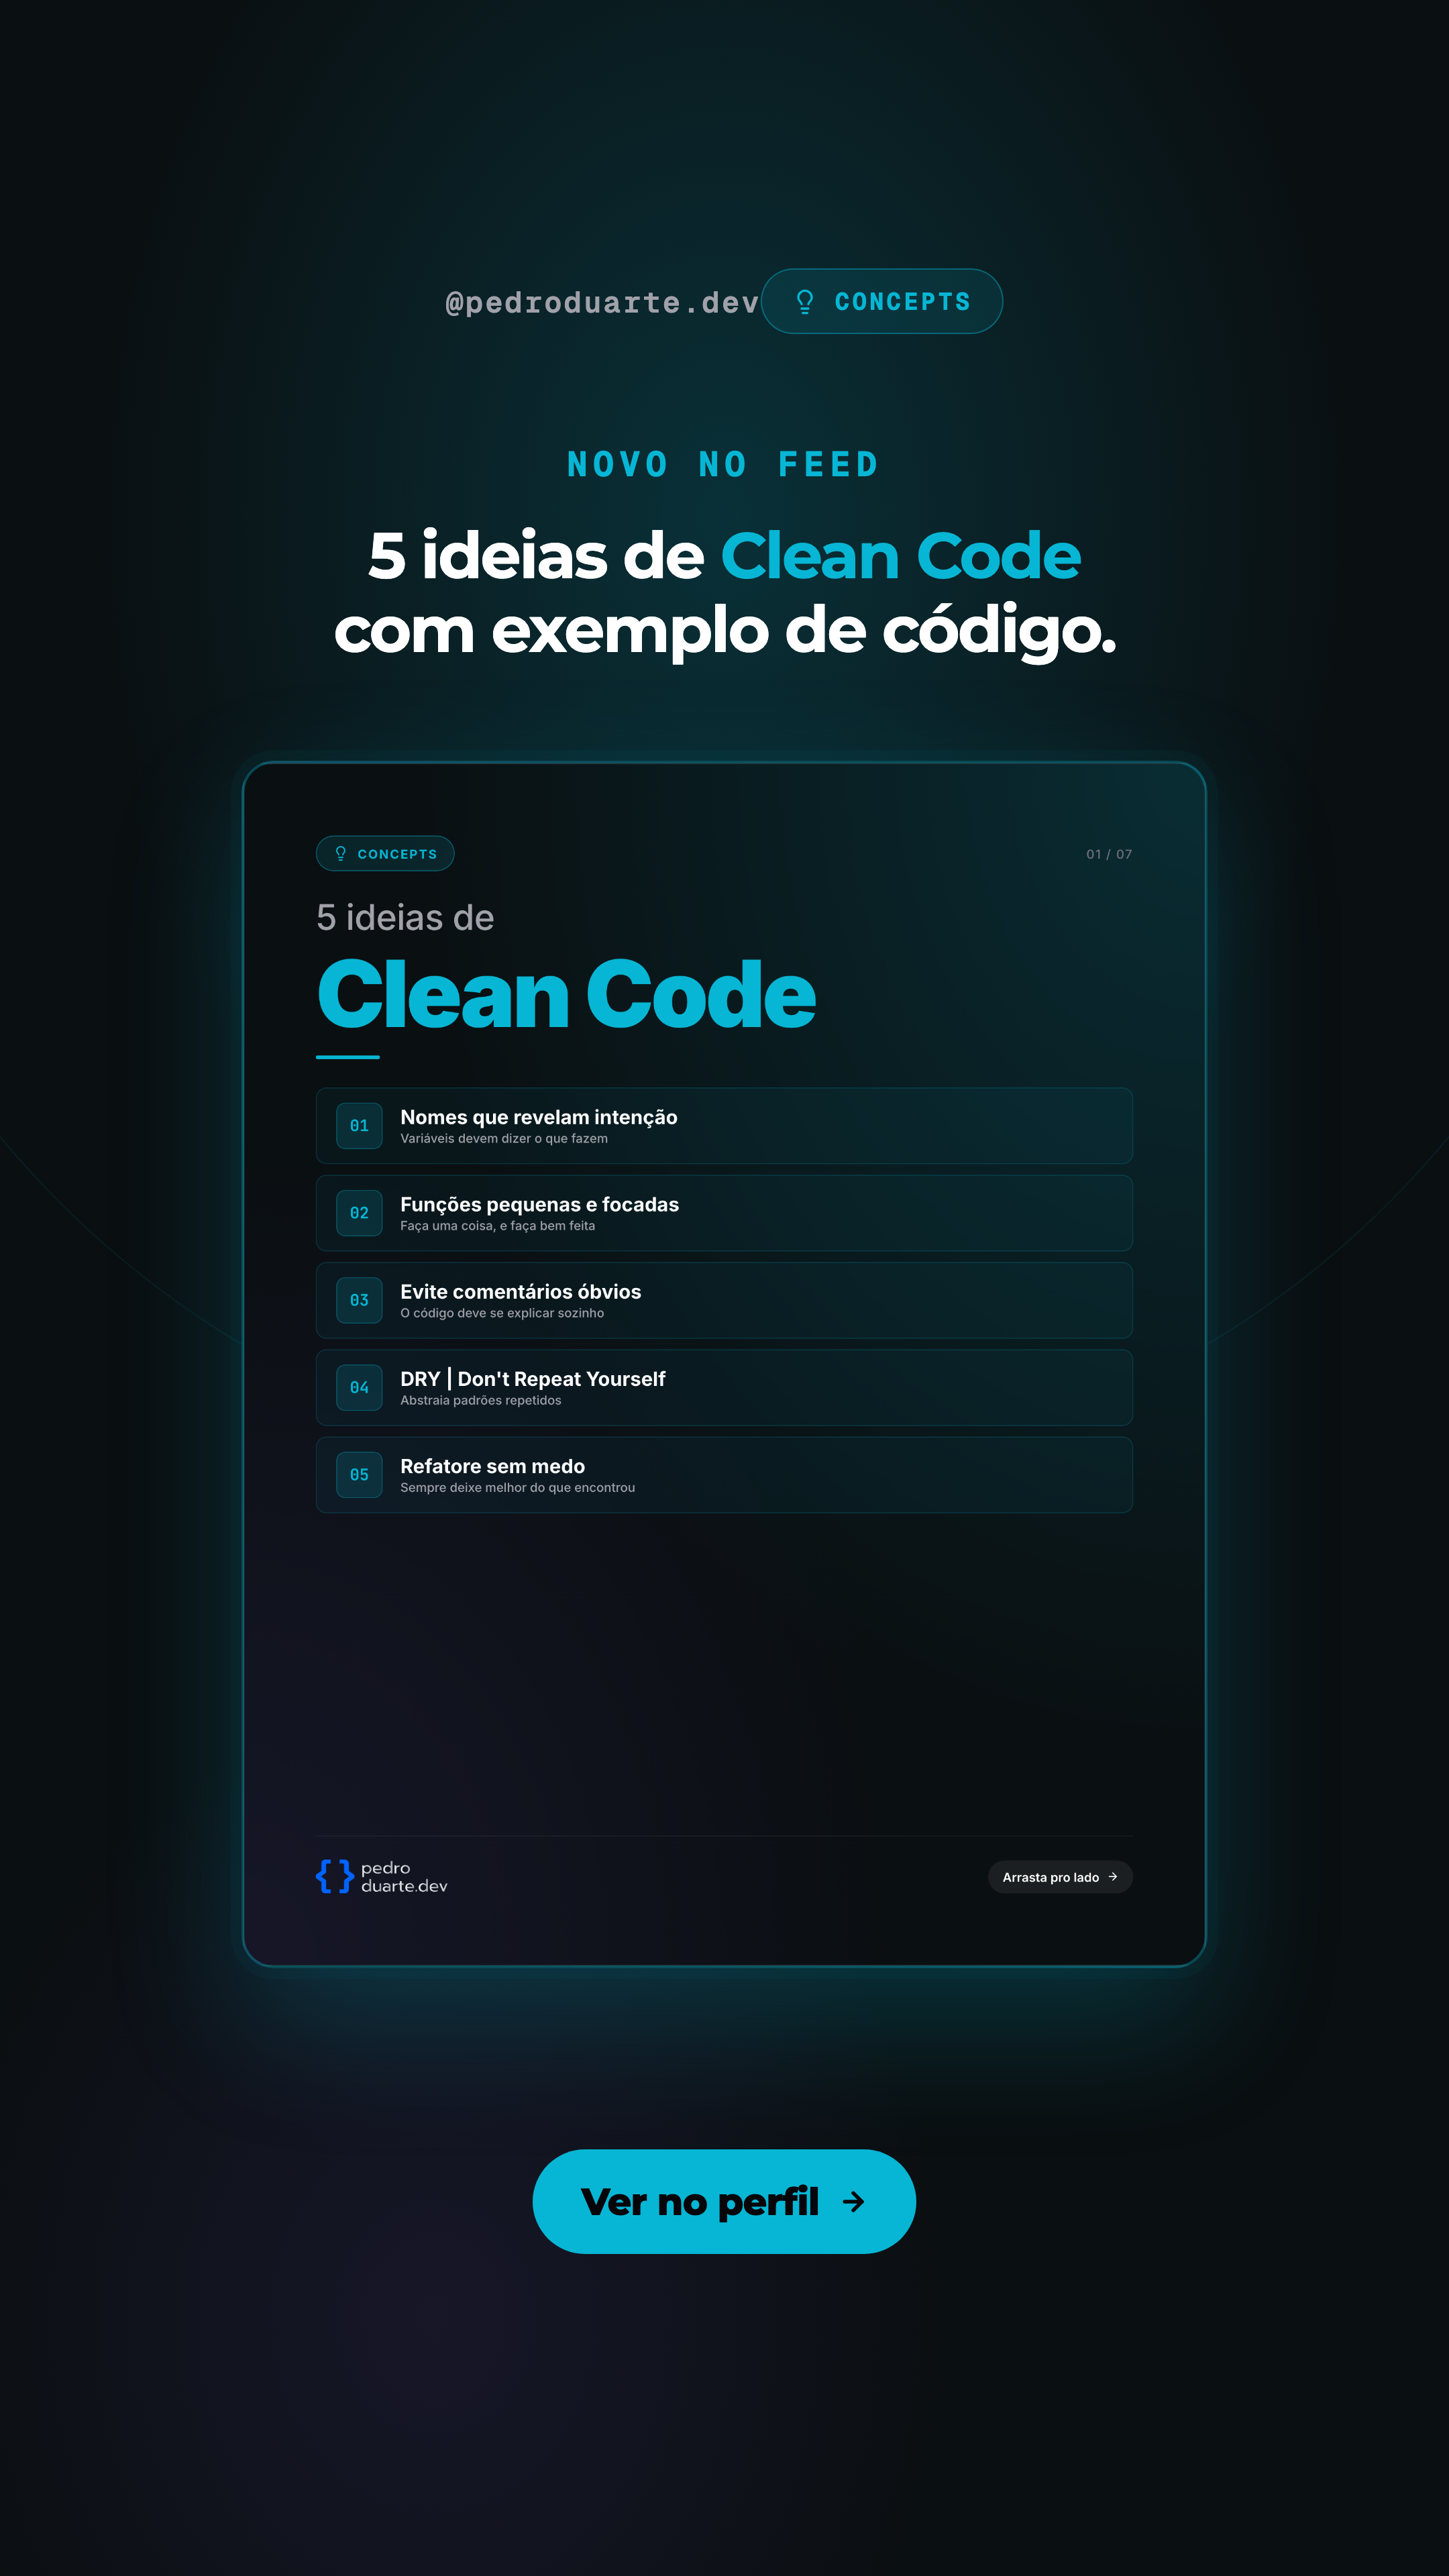
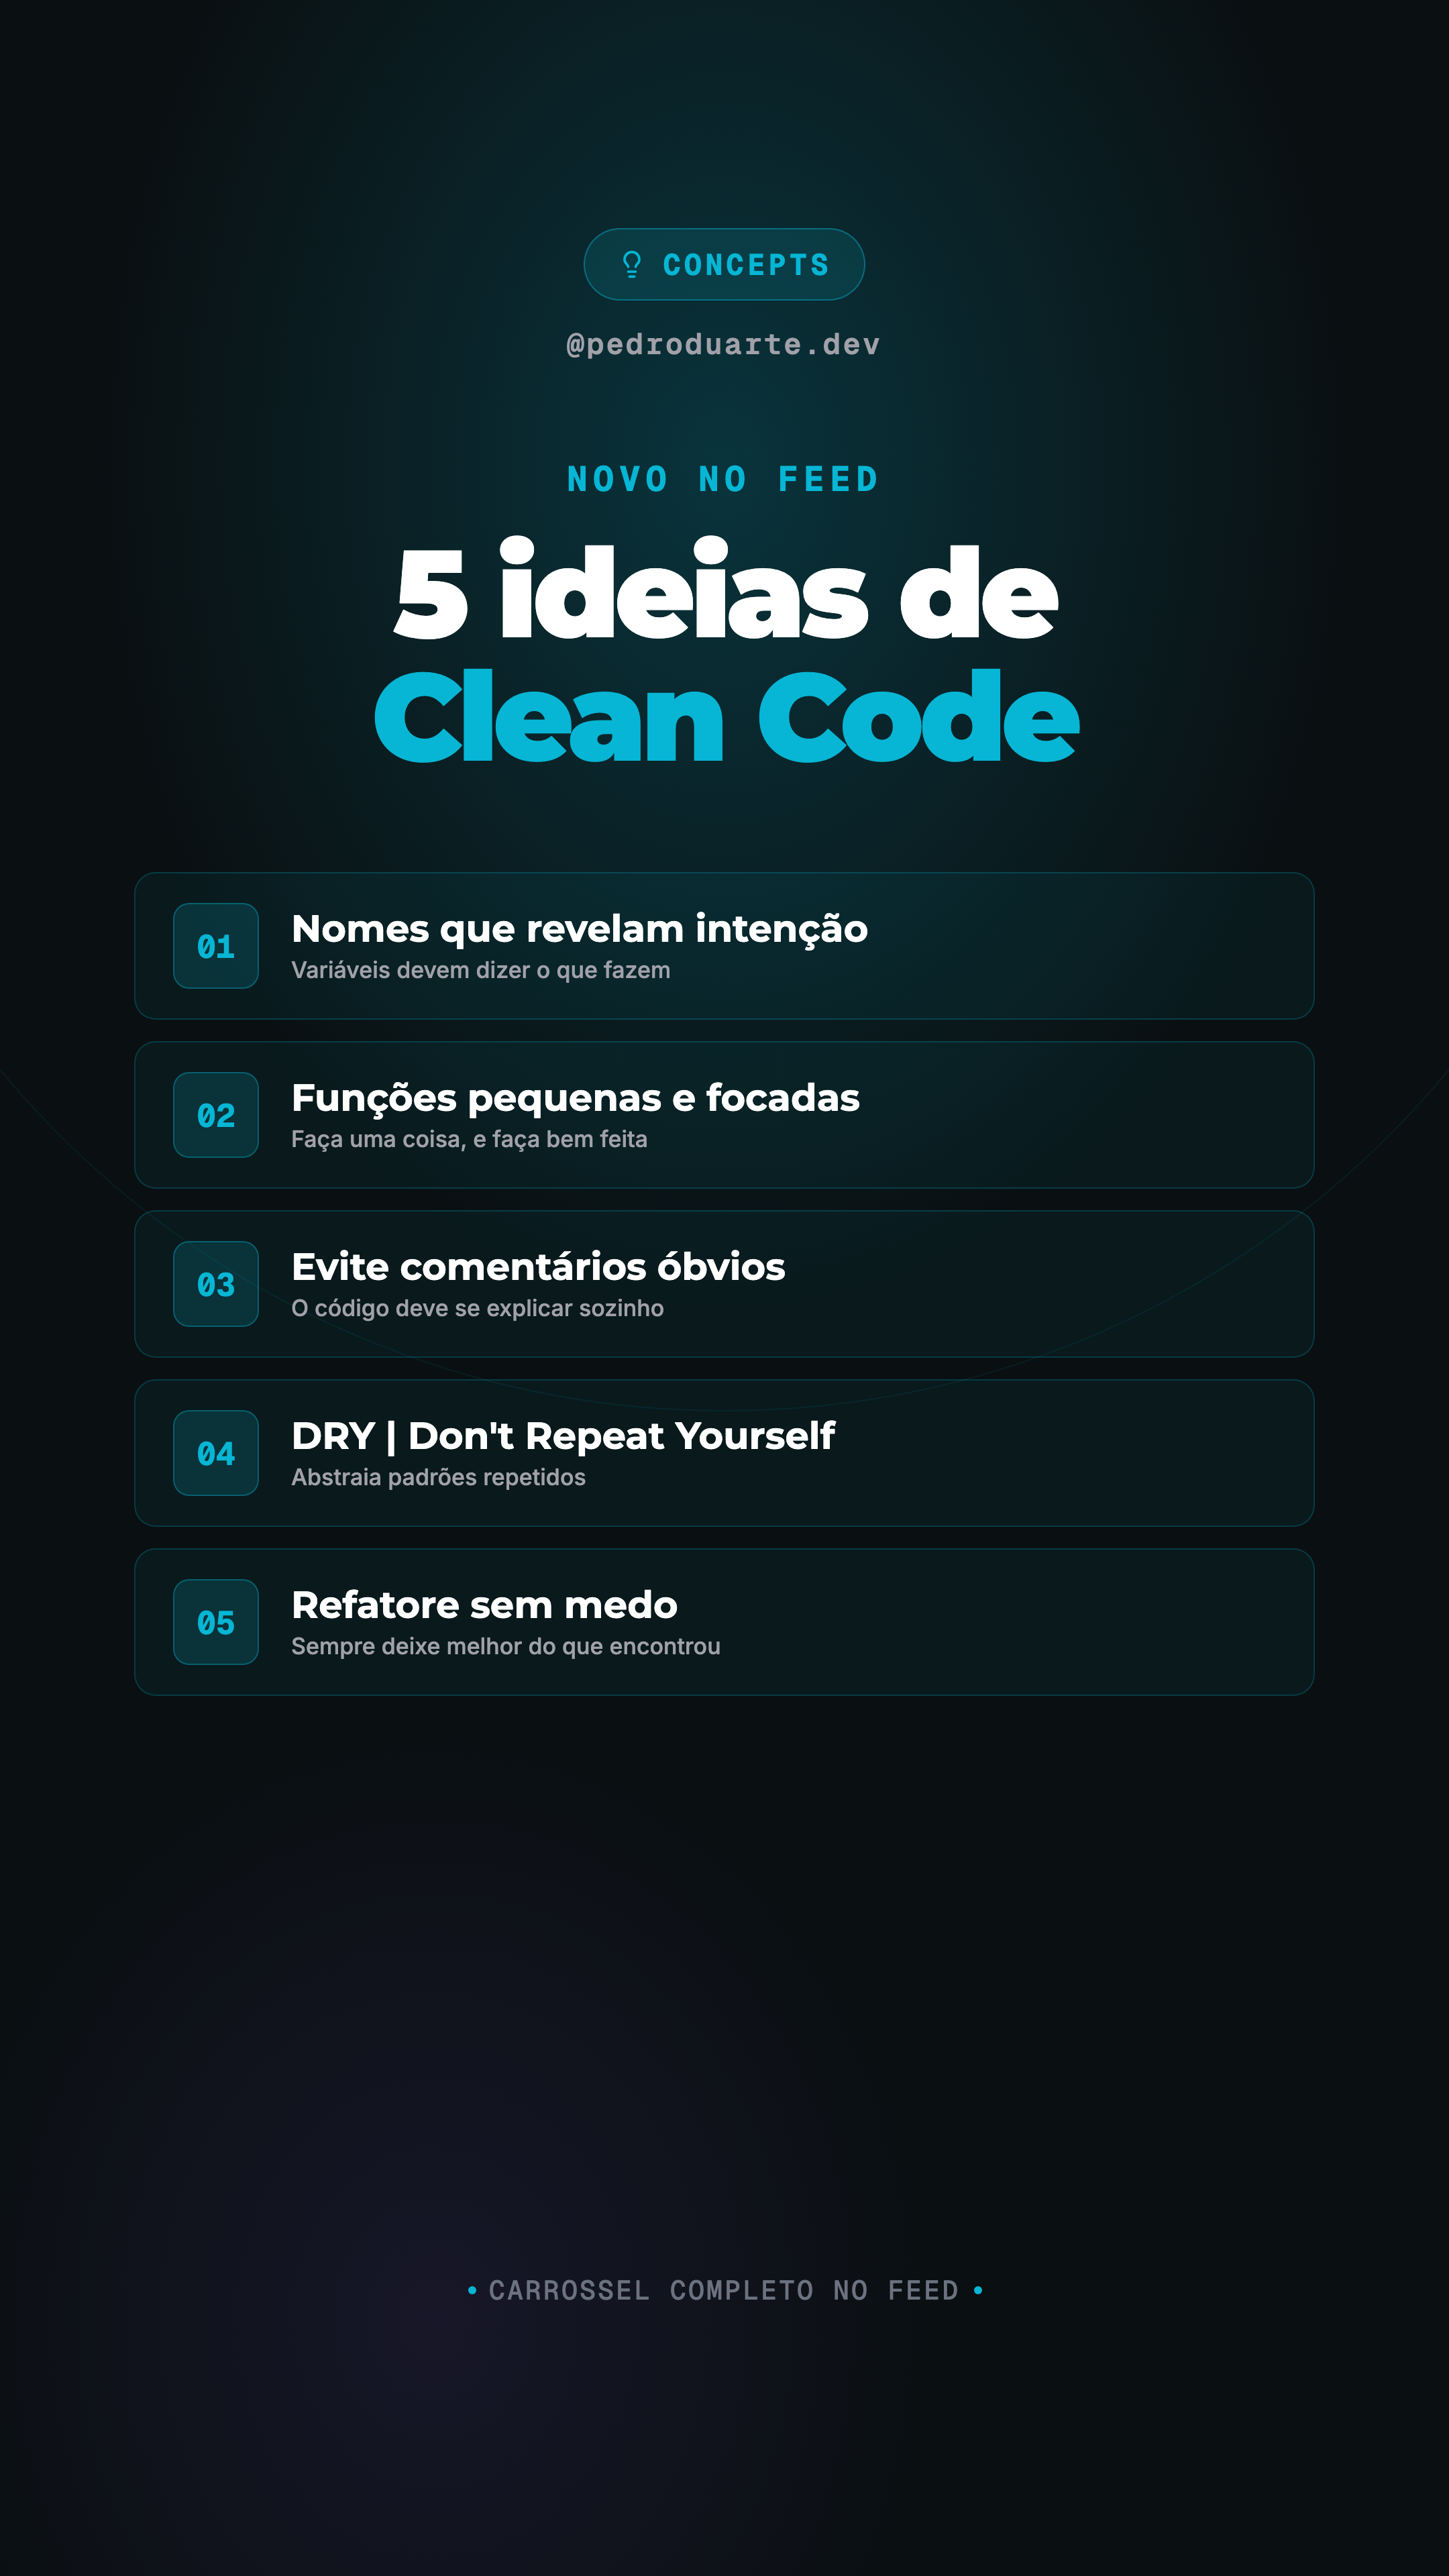
Ajusta story do Clean Code: índice dos 5 itens + hint discreto
- Tira preview pequena da capa, mostra os 5 itens numerados grandes
- Badge "Concepts" empilhado acima do @user
- Substitui CTA-falsa por hint "Carrossel completo no feed"
  (story via API não aceita stickers clicáveis, evitar enganar viewer)

diff --git a/marketing/conteudo/carrossel-clean-code-2026-05-21/story.html b/marketing/conteudo/carrossel-clean-code-2026-05-21/story.html
@@ -13,13 +13,13 @@
   .story {
     width: 1080px;
     height: 1920px;
-    background: radial-gradient(ellipse 80% 60% at 50% 20%, rgba(6,182,212,0.20) 0%, transparent 55%),
+    background: radial-gradient(ellipse 80% 60% at 50% 18%, rgba(6,182,212,0.22) 0%, transparent 55%),
                 radial-gradient(ellipse 60% 40% at 30% 90%, rgba(139,92,246,0.10) 0%, transparent 60%),
                 #0A0F11;
     display: flex;
     flex-direction: column;
     align-items: center;
-    padding: 200px 80px 240px;
+    padding: 170px 80px 200px;
     color: #FFFFFF;
     position: relative;
     overflow: hidden;
@@ -33,17 +33,43 @@
     border-radius: 999px;
     border: 1px solid rgba(6,182,212,0.18);
     opacity: 0.5;
-    top: -300px;
+    top: -350px;
     left: 50%;
     transform: translateX(-50%);
   }
 
-  .header {
+  /* Header: badge em cima, @handle embaixo */
+  .head {
     display: flex;
+    flex-direction: column;
     align-items: center;
-    justify-content: space-between;
+    gap: 18px;
     position: relative;
     z-index: 1;
+  }
+  .badge {
+    display: inline-flex;
+    align-items: center;
+    gap: 12px;
+    padding: 12px 24px;
+    border-radius: 999px;
+    background: rgba(6, 182, 212, 0.13);
+    border: 1px solid rgba(6, 182, 212, 0.42);
+    font-family: 'Geist Mono', monospace;
+    font-size: 22px;
+    font-weight: 700;
+    letter-spacing: 2.5px;
+    color: #06B6D4;
+    text-transform: uppercase;
+  }
+  .badge svg {
+    width: 22px;
+    height: 22px;
+    fill: none;
+    stroke: currentColor;
+    stroke-width: 2;
+    stroke-linecap: round;
+    stroke-linejoin: round;
   }
   .handle {
     font-family: 'Geist Mono', monospace;
@@ -52,33 +78,10 @@
     letter-spacing: 1.5px;
     color: #A1A1AA;
   }
-  .badge {
-    display: inline-flex;
-    align-items: center;
-    gap: 12px;
-    padding: 12px 22px;
-    border-radius: 999px;
-    background: rgba(6, 182, 212, 0.10);
-    border: 1px solid rgba(6, 182, 212, 0.40);
-    font-family: 'Geist Mono', monospace;
-    font-size: 18px;
-    font-weight: 700;
-    letter-spacing: 2px;
-    color: #06B6D4;
-    text-transform: uppercase;
-  }
-  .badge svg {
-    width: 20px;
-    height: 20px;
-    fill: none;
-    stroke: currentColor;
-    stroke-width: 2;
-    stroke-linecap: round;
-    stroke-linejoin: round;
-  }
 
+  /* Eyebrow + título */
   .eyebrow {
-    margin-top: 80px;
+    margin-top: 70px;
     font-family: 'Geist Mono', monospace;
     font-size: 26px;
     font-weight: 700;
@@ -89,74 +92,106 @@
     position: relative;
     z-index: 1;
   }
-
-  .subtitle {
-    margin-top: 24px;
+  .title {
+    margin-top: 22px;
     font-family: 'Montserrat', sans-serif;
-    font-size: 48px;
-    font-weight: 700;
-    line-height: 1.15;
-    letter-spacing: -1.5px;
+    font-size: 92px;
+    font-weight: 900;
+    line-height: 1;
+    letter-spacing: -3.5px;
     color: #FFFFFF;
     text-align: center;
-    max-width: 820px;
+    max-width: 920px;
     position: relative;
     z-index: 1;
   }
-  .subtitle em {
+  .title em {
     color: #06B6D4;
     font-style: normal;
   }
 
-  .preview {
+  /* Índice de 5 cards */
+  .index {
     margin-top: 70px;
-    width: 720px;
-    aspect-ratio: 4 / 5;
-    border-radius: 24px;
-    overflow: hidden;
-    border: 2px solid rgba(6, 182, 212, 0.35);
-    box-shadow: 0 40px 100px rgba(6, 182, 212, 0.22),
-                0 0 0 8px rgba(6, 182, 212, 0.04);
-    background-image: url('./instagram/slide-01.png');
-    background-size: cover;
-    background-position: center;
+    display: flex;
+    flex-direction: column;
+    gap: 16px;
+    width: 100%;
+    max-width: 880px;
     position: relative;
     z-index: 1;
   }
-
-  .cta {
-    margin-top: auto;
+  .card {
+    display: flex;
+    align-items: center;
+    gap: 24px;
+    padding: 22px 28px;
+    border-radius: 16px;
+    background: rgba(6, 182, 212, 0.06);
+    border: 1px solid rgba(6, 182, 212, 0.22);
+  }
+  .num {
+    flex-shrink: 0;
+    width: 64px;
+    height: 64px;
+    border-radius: 12px;
+    background: rgba(6, 182, 212, 0.16);
+    border: 1px solid rgba(6, 182, 212, 0.35);
     display: flex;
     align-items: center;
     justify-content: center;
-    gap: 14px;
-    padding: 22px 36px;
-    border-radius: 999px;
-    background: #06B6D4;
-    color: #06060A;
+    font-family: 'Geist Mono', monospace;
+    font-size: 24px;
+    font-weight: 700;
+    color: #06B6D4;
+  }
+  .card-body {
+    display: flex;
+    flex-direction: column;
+    gap: 3px;
+  }
+  .card-title {
     font-family: 'Montserrat', sans-serif;
     font-size: 28px;
-    font-weight: 800;
-    letter-spacing: -0.5px;
+    font-weight: 700;
+    color: #FFFFFF;
+    line-height: 1.15;
+  }
+  .card-sub {
+    font-family: 'Inter', sans-serif;
+    font-size: 17px;
+    font-weight: 500;
+    color: #A1A1AA;
+    line-height: 1.3;
+  }
+
+  /* Hint no rodapé — informativo, sem cara de botão */
+  .hint {
+    margin-top: auto;
+    display: inline-flex;
+    align-items: center;
+    gap: 10px;
+    font-family: 'Geist Mono', monospace;
+    font-size: 20px;
+    font-weight: 500;
+    letter-spacing: 1.5px;
+    color: #6B7280;
+    text-transform: uppercase;
     position: relative;
     z-index: 1;
   }
-  .cta svg {
-    width: 22px;
-    height: 22px;
-    fill: none;
-    stroke: currentColor;
-    stroke-width: 3;
-    stroke-linecap: round;
-    stroke-linejoin: round;
+  .hint-dot {
+    width: 6px;
+    height: 6px;
+    border-radius: 999px;
+    background: #06B6D4;
   }
 </style>
 </head>
 <body>
 
 <div class="story">
-  <div class="header">
-    <div class="handle">@pedroduarte.dev</div>
+  <div class="head">
     <div class="badge">
       <svg viewBox="0 0 24 24" xmlns="http://www.w3.org/2000/svg">
         <path d="M15 14c.2-1 .7-1.7 1.5-2.5 1-.9 1.5-2.2 1.5-3.5A6 6 0 0 0 6 8c0 1 .2 2.2 1.5 3.5.7.7 1.3 1.5 1.5 2.5"/>
@@ -165,19 +200,54 @@
       </svg>
       Concepts
     </div>
+    <div class="handle">@pedroduarte.dev</div>
   </div>
 
   <div class="eyebrow">Novo no feed</div>
-  <div class="subtitle">5 ideias de <em>Clean Code</em><br>com exemplo de código.</div>
+  <div class="title">5 ideias de<br><em>Clean Code</em></div>
 
-  <div class="preview"></div>
+  <div class="index">
+    <div class="card">
+      <div class="num">01</div>
+      <div class="card-body">
+        <div class="card-title">Nomes que revelam intenção</div>
+        <div class="card-sub">Variáveis devem dizer o que fazem</div>
+      </div>
+    </div>
+    <div class="card">
+      <div class="num">02</div>
+      <div class="card-body">
+        <div class="card-title">Funções pequenas e focadas</div>
+        <div class="card-sub">Faça uma coisa, e faça bem feita</div>
+      </div>
+    </div>
+    <div class="card">
+      <div class="num">03</div>
+      <div class="card-body">
+        <div class="card-title">Evite comentários óbvios</div>
+        <div class="card-sub">O código deve se explicar sozinho</div>
+      </div>
+    </div>
+    <div class="card">
+      <div class="num">04</div>
+      <div class="card-body">
+        <div class="card-title">DRY | Don't Repeat Yourself</div>
+        <div class="card-sub">Abstraia padrões repetidos</div>
+      </div>
+    </div>
+    <div class="card">
+      <div class="num">05</div>
+      <div class="card-body">
+        <div class="card-title">Refatore sem medo</div>
+        <div class="card-sub">Sempre deixe melhor do que encontrou</div>
+      </div>
+    </div>
+  </div>
 
-  <div class="cta">
-    Ver no perfil
-    <svg viewBox="0 0 24 24" xmlns="http://www.w3.org/2000/svg">
-      <path d="M5 12h14"/>
-      <path d="M12 5l7 7-7 7"/>
-    </svg>
+  <div class="hint">
+    <span class="hint-dot"></span>
+    Carrossel completo no feed
+    <span class="hint-dot"></span>
   </div>
 </div>
 